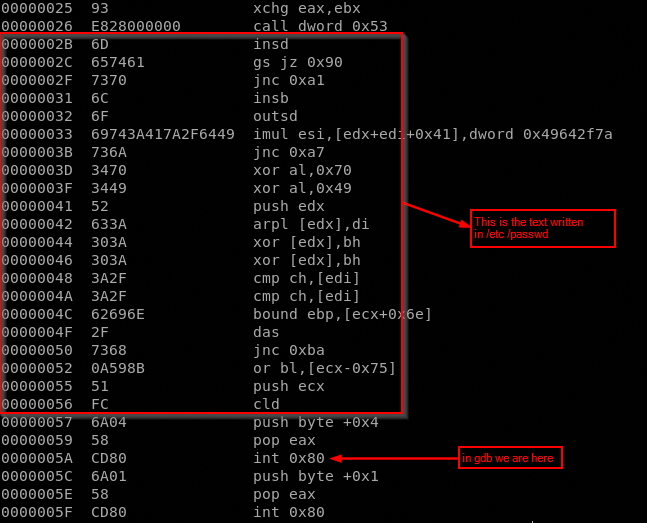
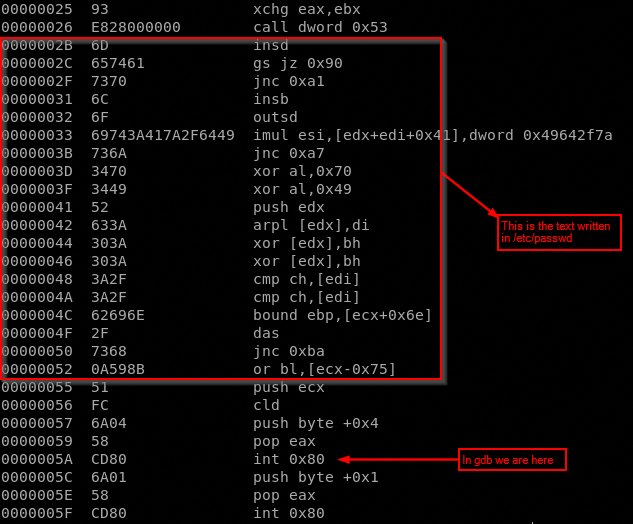
adduser update

Changed region(s): [[0.0, 0.0, 0.9905, 1.0], [0.6904, 0.826, 0.9005, 0.9178]]

diff --git a/_posts/2019-09-30-SLAE32-5.md b/_posts/2019-09-30-SLAE32-5.md
@@ -169,9 +169,7 @@ Let's copy the values in this range of address<br>
 62696E
 2F
 7368
-0A598B
-51
-FC
+0A
 ```
 and paste it in a converter<br>
 ![](/assets/images/SLAE32/assignment_5/write_4.png)<br>
